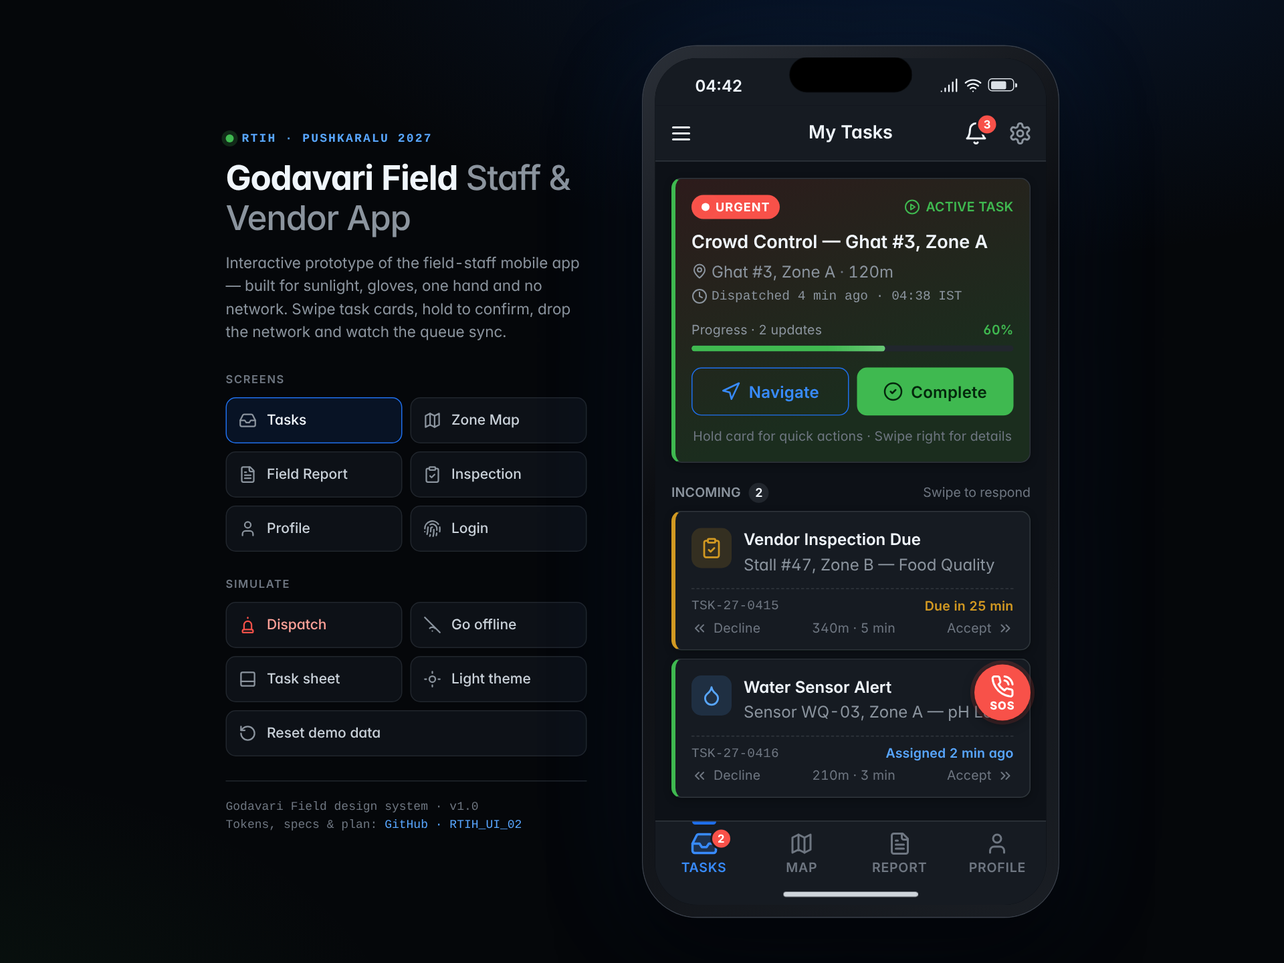
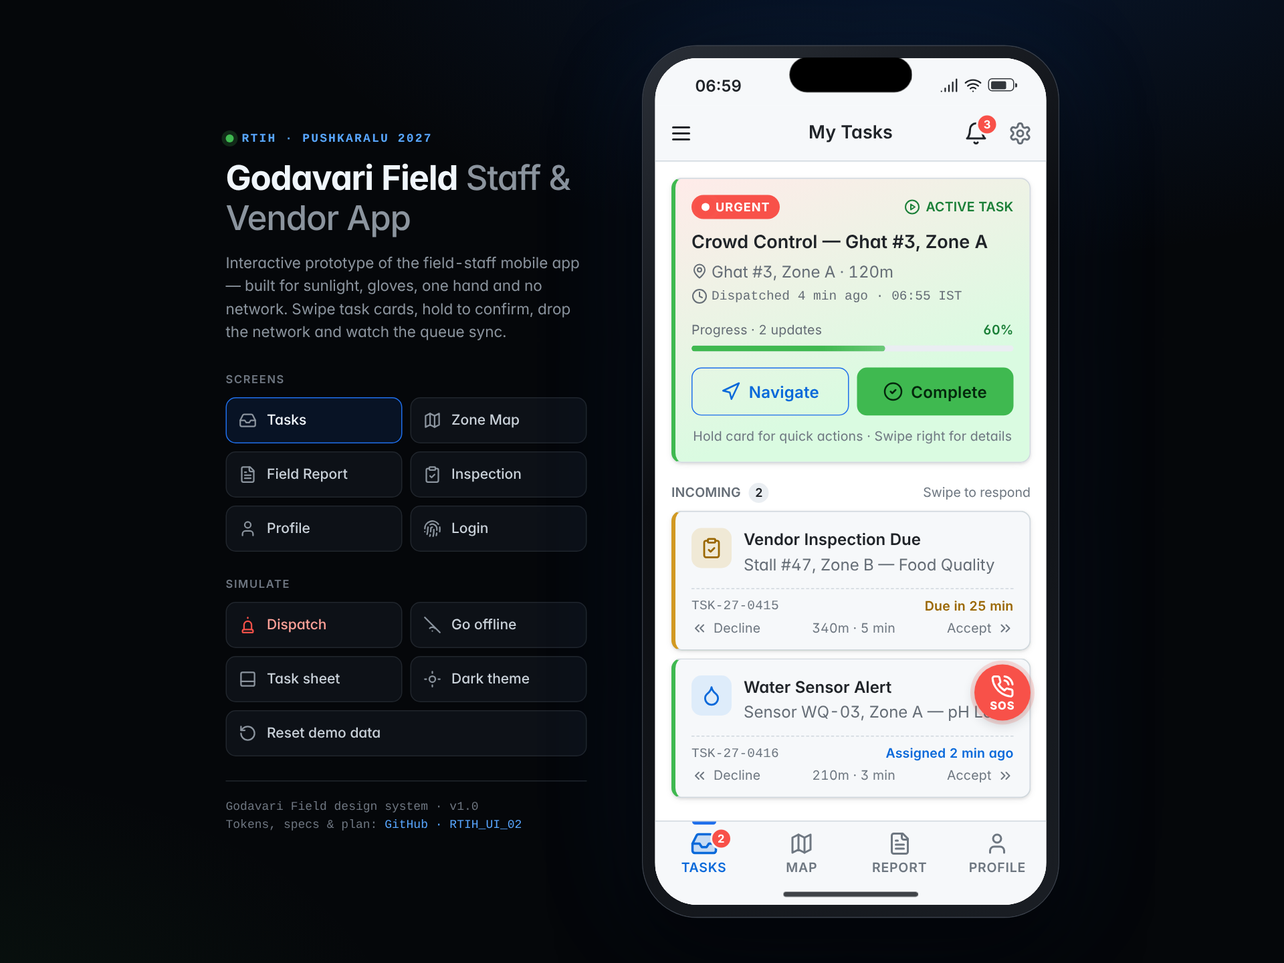
Default to light (day) theme; legible status text tokens for light mode
- Light theme is the default (store, <html>, manifest); dark stays a Profile toggle
- New --color-status-*-fg tokens: darker status tones for text/icons on white (>=4.5:1)
- brand-secondary #0969DA in light; tests extended; screenshots regenerated

Claude-Session: https://claude.ai/code/session_01Wd92WNZffg83YEwUqjfvjR

Changed region(s): [[0.5, 0.0625, 0.8125, 0.9375], [0.3438, 0.6875, 0.4062, 0.7188]]

diff --git a/src/styles/components.css b/src/styles/components.css
@@ -81,9 +81,9 @@
   position: relative;
 }
 .netbar__inner svg { width: 16px; height: 16px; }
-.netbar--offline .netbar__inner { background: rgba(210, 153, 34, 0.15); color: var(--color-status-warning); }
-.netbar--syncing .netbar__inner { background: rgba(88, 166, 255, 0.14); color: var(--color-status-info); }
-.netbar--synced .netbar__inner { background: rgba(63, 185, 80, 0.15); color: var(--color-status-normal); }
+.netbar--offline .netbar__inner { background: rgba(210, 153, 34, 0.15); color: var(--color-status-warning-fg); }
+.netbar--syncing .netbar__inner { background: rgba(88, 166, 255, 0.14); color: var(--color-status-info-fg); }
+.netbar--synced .netbar__inner { background: rgba(63, 185, 80, 0.15); color: var(--color-status-normal-fg); }
 .netbar__chevrons {
   position: absolute; left: 0; right: 0; bottom: 0; height: 4px;
   background-image: linear-gradient(135deg, transparent 33%, var(--color-status-warning) 33%, var(--color-status-warning) 50%, transparent 50%, transparent 83%, var(--color-status-warning) 83%);
@@ -197,7 +197,7 @@
 .btn--success { background: var(--color-status-normal); color: #04260C; }
 .btn--danger { background: var(--color-status-critical); color: #fff; }
 .btn--outline { border: 1.5px solid var(--color-brand-primary); color: var(--color-brand-secondary); background: transparent; }
-.btn--outline-danger { border: 1.5px solid var(--color-status-critical); color: var(--color-status-critical); background: transparent; }
+.btn--outline-danger { border: 1.5px solid var(--color-status-critical); color: var(--color-status-critical-fg); background: transparent; }
 .btn--ghost { color: var(--color-text-primary); background: var(--color-bg-tertiary); }
 .btn--sm { min-height: 40px; font-size: 15px; padding: 0 var(--space-3); }
 .btn--xl { min-height: 56px; }
@@ -257,8 +257,8 @@
 }
 .swipe__under-side { display: flex; align-items: center; gap: var(--space-2); opacity: 0; transform: scale(0.5); }
 .swipe__under-side svg { width: 32px; height: 32px; }
-.swipe__under--accept { background: rgba(63, 185, 80, 0.2); justify-content: flex-start; color: var(--color-status-normal); }
-.swipe__under--decline { background: rgba(248, 81, 73, 0.2); justify-content: flex-end; color: var(--color-status-critical); }
+.swipe__under--accept { background: rgba(63, 185, 80, 0.2); justify-content: flex-start; color: var(--color-status-normal-fg); }
+.swipe__under--decline { background: rgba(248, 81, 73, 0.2); justify-content: flex-end; color: var(--color-status-critical-fg); }
 .swipe__card { padding: var(--space-4); padding-bottom: var(--space-3); cursor: grab; will-change: transform; user-select: none; -webkit-user-select: none; }
 .swipe__card.is-settling { transition: transform var(--duration-normal) var(--ease-spring), background var(--duration-fast); }
 .swipe__card.is-leaving { transition: transform var(--duration-normal) var(--ease-default), opacity var(--duration-normal); }
@@ -272,15 +272,15 @@
 .incoming__foot { display: flex; align-items: center; justify-content: space-between; gap: var(--space-2); margin-top: var(--space-3); padding-top: var(--space-2); border-top: 1px dashed var(--color-border-default); color: var(--color-text-tertiary); }
 .incoming__foot svg { width: 16px; height: 16px; }
 .swipe-hint { display: flex; align-items: center; gap: 6px; }
-.tint-urgent { background: rgba(248,81,73,0.15); color: var(--color-status-critical); }
-.tint-high { background: rgba(210,153,34,0.16); color: var(--color-status-warning); }
-.tint-normal { background: rgba(63,185,80,0.15); color: var(--color-status-normal); }
-.tint-info { background: rgba(88,166,255,0.15); color: var(--color-status-info); }
+.tint-urgent { background: rgba(248,81,73,0.15); color: var(--color-status-critical-fg); }
+.tint-high { background: rgba(210,153,34,0.16); color: var(--color-status-warning-fg); }
+.tint-normal { background: rgba(63,185,80,0.15); color: var(--color-status-normal-fg); }
+.tint-info { background: rgba(88,166,255,0.15); color: var(--color-status-info-fg); }
 .tint-low { background: var(--color-bg-tertiary); color: var(--color-text-secondary); }
 .tint-radar { background: rgba(163,113,247,0.16); color: var(--color-status-radar); }
 
 .done-card { background: color-mix(in srgb, var(--color-bg-secondary) 60%, transparent); box-shadow: none; padding: var(--space-3) var(--space-4); display: flex; align-items: center; gap: var(--space-3); margin-bottom: var(--space-2); width: 100%; text-align: left; border-color: transparent; }
-.done-card svg { width: 20px; height: 20px; color: var(--color-status-normal); }
+.done-card svg { width: 20px; height: 20px; color: var(--color-status-normal-fg); }
 .done-card__body { flex: 1; min-width: 0; }
 .done-card__title { color: var(--color-text-secondary); white-space: nowrap; overflow: hidden; text-overflow: ellipsis; }
 .done-card .chev { width: 20px; height: 20px; color: var(--color-text-tertiary); }
@@ -334,7 +334,7 @@
 .notes { border: 1px solid var(--color-border-default); border-radius: var(--radius-md); overflow: hidden; }
 .note { display: grid; grid-template-columns: 52px 1fr; gap: var(--space-2); padding: var(--space-3); border-bottom: 1px solid var(--color-border-default); }
 .note:last-of-type { border-bottom: 0; }
-.note__time { color: var(--color-status-info); }
+.note__time { color: var(--color-status-info-fg); }
 .note-add { display: flex; gap: var(--space-2); padding: var(--space-2); background: var(--color-bg-secondary); border-top: 1px solid var(--color-border-default); }
 .note-add input { flex: 1; min-height: 44px; border-radius: var(--radius-sm); border: 1px solid var(--color-border-default); background: var(--color-bg-primary); padding: 0 var(--space-3); outline: none; }
 .note-add input:focus { border-color: var(--color-border-focus); box-shadow: var(--shadow-focus); }
@@ -349,9 +349,9 @@
 }
 .option svg { width: 24px; height: 24px; color: var(--color-text-secondary); }
 .option:active { background: var(--color-bg-tertiary); }
-.option--danger svg { color: var(--color-status-critical); }
-.option--warn svg { color: var(--color-status-warning); }
-.option--info svg { color: var(--color-status-info); }
+.option--danger svg { color: var(--color-status-critical-fg); }
+.option--warn svg { color: var(--color-status-warning-fg); }
+.option--info svg { color: var(--color-status-info-fg); }
 
 /* ---------- Toast ---------- */
 .toasts { position: absolute; left: var(--space-4); right: var(--space-4); top: calc(47px + var(--header-h) + var(--space-2)); z-index: var(--z-toast); display: grid; gap: var(--space-2); pointer-events: none; }
@@ -364,13 +364,13 @@
 }
 .toast svg { width: 22px; height: 22px; }
 .toast--success { border-left: 4px solid var(--color-status-normal); }
-.toast--success svg { color: var(--color-status-normal); }
+.toast--success svg { color: var(--color-status-normal-fg); }
 .toast--warning { border-left: 4px solid var(--color-status-warning); }
-.toast--warning svg { color: var(--color-status-warning); }
+.toast--warning svg { color: var(--color-status-warning-fg); }
 .toast--info { border-left: 4px solid var(--color-status-info); }
-.toast--info svg { color: var(--color-status-info); }
+.toast--info svg { color: var(--color-status-info-fg); }
 .toast--critical { border-left: 4px solid var(--color-status-critical); }
-.toast--critical svg { color: var(--color-status-critical); }
+.toast--critical svg { color: var(--color-status-critical-fg); }
 .toast.is-out { animation: toastOut var(--duration-fast) var(--ease-default) forwards; }
 @keyframes toastIn { from { opacity: 0; transform: translateY(-12px) scale(0.96); } to { opacity: 1; transform: none; } }
 @keyframes toastOut { to { opacity: 0; transform: translateY(-8px); } }
@@ -394,11 +394,11 @@
 @keyframes glow { 0%, 100% { transform: scale(0.85); opacity: 0.7; } 50% { transform: scale(1.05); opacity: 1; } }
 @keyframes fadeIn { from { opacity: 0; } to { opacity: 1; } }
 .dispatch__main { position: relative; flex: 1; display: flex; flex-direction: column; align-items: center; text-align: center; }
-.dispatch__siren { width: 88px; height: 88px; border-radius: 50%; display: grid; place-items: center; background: rgba(248, 81, 73, 0.16); color: var(--color-status-critical); margin-bottom: var(--space-5); box-shadow: 0 0 0 10px rgba(248,81,73,0.08), 0 0 0 22px rgba(248,81,73,0.04); }
-.dispatch--high .dispatch__siren { background: rgba(210,153,34,0.16); color: var(--color-status-warning); box-shadow: 0 0 0 10px rgba(210,153,34,0.08), 0 0 0 22px rgba(210,153,34,0.04); }
+.dispatch__siren { width: 88px; height: 88px; border-radius: 50%; display: grid; place-items: center; background: rgba(248, 81, 73, 0.16); color: var(--color-status-critical-fg); margin-bottom: var(--space-5); box-shadow: 0 0 0 10px rgba(248,81,73,0.08), 0 0 0 22px rgba(248,81,73,0.04); }
+.dispatch--high .dispatch__siren { background: rgba(210,153,34,0.16); color: var(--color-status-warning-fg); box-shadow: 0 0 0 10px rgba(210,153,34,0.08), 0 0 0 22px rgba(210,153,34,0.04); }
 .dispatch__siren svg { width: 44px; height: 44px; }
-.dispatch__kicker { color: var(--color-status-critical); letter-spacing: 0.08em; margin: 0 0 var(--space-4); }
-.dispatch--high .dispatch__kicker { color: var(--color-status-warning); }
+.dispatch__kicker { color: var(--color-status-critical-fg); letter-spacing: 0.08em; margin: 0 0 var(--space-4); }
+.dispatch--high .dispatch__kicker { color: var(--color-status-warning-fg); }
 .dispatch__title { margin: 0 0 var(--space-1); font-size: 26px; line-height: 32px; font-weight: 700; letter-spacing: -0.015em; }
 .dispatch__stats { display: grid; grid-template-columns: 1fr 1fr; gap: var(--space-2); width: 100%; margin-top: var(--space-6); }
 .dispatch__stat { background: var(--color-bg-secondary); border: 1px solid var(--color-border-default); border-radius: var(--radius-md); padding: var(--space-3); }
@@ -430,7 +430,7 @@
 /* ---------- Form controls ---------- */
 .field-label { color: var(--color-text-secondary); margin: var(--space-5) 0 var(--space-2); display: flex; align-items: center; justify-content: space-between; }
 .field-label:first-child { margin-top: 0; }
-.req { color: var(--color-status-critical); margin-left: 2px; }
+.req { color: var(--color-status-critical-fg); margin-left: 2px; }
 
 .type-scroller { display: flex; gap: var(--space-2); overflow-x: auto; margin: 0 calc(var(--space-4) * -1); padding: 2px var(--space-4) 4px; scroll-snap-type: x mandatory; scrollbar-width: none; }
 .type-scroller::-webkit-scrollbar { display: none; }
@@ -450,12 +450,12 @@
 .segmented button[aria-checked="true"][data-tone="warning"] { background: var(--color-status-warning); color: #1F1400; }
 .segmented button[aria-checked="true"][data-tone="critical"] { background: var(--color-status-critical); }
 .segmented--tall button { height: 52px; }
-.suggest { margin-top: var(--space-2); display: flex; align-items: center; gap: 6px; color: var(--color-status-warning); }
+.suggest { margin-top: var(--space-2); display: flex; align-items: center; gap: 6px; color: var(--color-status-warning-fg); }
 .suggest svg { width: 16px; height: 16px; }
 
 .loc-card { padding: var(--space-3) var(--space-4); }
 .loc-card__row { display: flex; align-items: flex-start; gap: var(--space-2); width: 100%; text-align: left; min-height: 44px; }
-.loc-card__row > svg { width: 20px; height: 20px; color: var(--color-status-info); margin-top: 2px; }
+.loc-card__row > svg { width: 20px; height: 20px; color: var(--color-status-info-fg); margin-top: 2px; }
 .loc-card .btn-row { margin-top: var(--space-3); }
 .loc-card .btn { font-size: 14px; padding: 0 var(--space-2); white-space: nowrap; gap: 6px; }
 .loc-card .btn svg { width: 18px; height: 18px; }
@@ -478,7 +478,7 @@
 .textarea textarea::placeholder { color: var(--color-text-tertiary); }
 .textarea textarea:focus { border: 2px solid var(--color-border-focus); box-shadow: var(--shadow-focus); padding: calc(var(--space-3) - 1px) calc(var(--space-4) - 1px) calc(var(--space-6) - 1px); }
 .textarea__count { position: absolute; right: var(--space-3); bottom: var(--space-2); color: var(--color-text-tertiary); pointer-events: none; }
-.textarea__count.is-near { color: var(--color-status-warning); }
+.textarea__count.is-near { color: var(--color-status-warning-fg); }
 
 .photos { display: flex; gap: var(--space-2); flex-wrap: wrap; }
 .photo-add { width: 72px; height: 72px; border-radius: var(--radius-md); border: 2px dashed var(--color-border-default); color: var(--color-text-secondary); display: flex; flex-direction: column; align-items: center; justify-content: center; gap: 2px; font: 600 12px/14px var(--font-sans); transition: border-color var(--duration-fast), color var(--duration-fast); }
@@ -540,7 +540,7 @@
 .is-fail .checkbox { background: var(--color-status-critical); border-color: var(--color-status-critical); }
 .is-pass .checkbox svg, .is-fail .checkbox svg { transform: scale(1); }
 .check-item__label { flex: 1; }
-.check-item__photo { display: inline-flex; align-items: center; gap: 4px; color: var(--color-status-critical); font: 600 13px/18px var(--font-sans); padding: 6px 8px; border-radius: var(--radius-sm); background: rgba(248,81,73,0.12); min-height: 32px; }
+.check-item__photo { display: inline-flex; align-items: center; gap: 4px; color: var(--color-status-critical-fg); font: 600 13px/18px var(--font-sans); padding: 6px 8px; border-radius: var(--radius-sm); background: rgba(248,81,73,0.12); min-height: 32px; }
 .check-item__photo svg { width: 16px; height: 16px; }
 .legend { display: flex; gap: var(--space-4); margin-top: var(--space-2); color: var(--color-text-tertiary); }
 .legend span { display: inline-flex; align-items: center; gap: 6px; }
@@ -575,7 +575,7 @@
 .switch::after { content: ''; position: absolute; top: 2px; left: 2px; width: 25px; height: 25px; border-radius: 50%; background: #fff; box-shadow: 0 2px 4px rgba(0,0,0,0.3); transition: transform var(--duration-fast) var(--ease-spring); }
 .switch[aria-checked="true"] { background: var(--color-brand-primary); border-color: var(--color-brand-primary); }
 .switch[aria-checked="true"]::after { transform: translateX(20px); }
-.clear-btn { color: var(--color-status-critical); font-weight: 600; font-size: 15px; min-height: 40px; padding: 0 var(--space-3); border-radius: var(--radius-sm); background: rgba(248,81,73,0.12); }
+.clear-btn { color: var(--color-status-critical-fg); font-weight: 600; font-size: 15px; min-height: 40px; padding: 0 var(--space-3); border-radius: var(--radius-sm); background: rgba(248,81,73,0.12); }
 .version { text-align: center; color: var(--color-text-tertiary); margin-top: var(--space-4); }
 
 /* ---------- Login ---------- */

diff --git a/index.html b/index.html
@@ -1,9 +1,10 @@
 <!doctype html>
-<html lang="en" data-theme="dark">
+<html lang="en" data-theme="light">
 <head>
   <meta charset="utf-8">
   <meta name="viewport" content="width=device-width, initial-scale=1, viewport-fit=cover">
-  <meta name="theme-color" content="#0D1117">
+  <meta name="theme-color" content="#FFFFFF" media="(prefers-color-scheme: light)">
+  <meta name="theme-color" content="#FFFFFF">
   <meta name="color-scheme" content="dark light">
   <meta name="description" content="Godavari Field — RTIH AP Godavari Pushkaralu 2027 staff & vendor mobile app UI. Interactive, offline-first prototype.">
   <meta name="apple-mobile-web-app-capable" content="yes">
@@ -35,7 +36,7 @@
           <button class="panel__btn panel__btn--danger" id="ctlDispatch"><svg viewBox="0 0 24 24" fill="none" stroke="currentColor" stroke-width="2" stroke-linecap="round" stroke-linejoin="round"><path d="M7 18v-6a5 5 0 1 1 10 0v6"/><path d="M5 21a1 1 0 0 0 1 1h12a1 1 0 0 0 1-1v-1a2 2 0 0 0-2-2H7a2 2 0 0 0-2 2z"/><path d="M12 2v1"/></svg>Dispatch</button>
           <button class="panel__btn" id="ctlNet" aria-pressed="false"><svg viewBox="0 0 24 24" fill="none" stroke="currentColor" stroke-width="2" stroke-linecap="round" stroke-linejoin="round"><path d="M12 20h.01"/><path d="M8.5 16.429a5 5 0 0 1 7 0"/><path d="m2 2 20 20"/></svg><span>Go offline</span></button>
           <button class="panel__btn" id="ctlTask"><svg viewBox="0 0 24 24" fill="none" stroke="currentColor" stroke-width="2" stroke-linecap="round" stroke-linejoin="round"><rect x="3" y="3" width="18" height="18" rx="2"/><path d="M3 15h18"/></svg>Task sheet</button>
-          <button class="panel__btn" id="ctlTheme" aria-pressed="false"><svg viewBox="0 0 24 24" fill="none" stroke="currentColor" stroke-width="2" stroke-linecap="round" stroke-linejoin="round"><circle cx="12" cy="12" r="4"/><path d="M12 2v2M12 20v2M2 12h2M20 12h2"/></svg><span>Light theme</span></button>
+          <button class="panel__btn" id="ctlTheme" aria-pressed="false"><svg viewBox="0 0 24 24" fill="none" stroke="currentColor" stroke-width="2" stroke-linecap="round" stroke-linejoin="round"><circle cx="12" cy="12" r="4"/><path d="M12 2v2M12 20v2M2 12h2M20 12h2"/></svg><span>Dark theme</span></button>
           <button class="panel__btn panel__btn--wide" id="ctlReset"><svg viewBox="0 0 24 24" fill="none" stroke="currentColor" stroke-width="2" stroke-linecap="round" stroke-linejoin="round"><path d="M3 12a9 9 0 1 0 9-9 9.75 9.75 0 0 0-6.74 2.74L3 8"/><path d="M3 3v5h5"/></svg>Reset demo data</button>
         </div>
       </div>

diff --git a/src/styles/tokens.css b/src/styles/tokens.css
@@ -3,6 +3,8 @@
    Source of truth: docs/brief/UI_BRIEF.md §2 (mirrored in tokens/tokens.json)
    ========================================================================== */
 
+/* Base values = dark palette; the light block overrides them.
+   Light (day) is the DEFAULT theme: <html data-theme="light"> + store default. Dark is the user toggle. */
 :root,
 [data-theme="dark"] {
   /* 2.1 Colour — Dark (default) */
@@ -21,6 +23,11 @@
   --color-status-critical: #F85149;
   --color-status-info: #58A6FF;
   --color-status-radar: #A371F7;
+  /* Status colours used as TEXT/ICON (same as fills in dark) */
+  --color-status-normal-fg: #3FB950;
+  --color-status-warning-fg: #D29922;
+  --color-status-critical-fg: #F85149;
+  --color-status-info-fg: #58A6FF;
   --color-surface-task-urgent: #2D1B1B;
   --color-surface-task-active: #1B2D1E;
   --color-surface-task-pending: #2D2B1B;
@@ -57,6 +64,12 @@
   --color-text-tertiary: #6E7781;
   --color-text-inverse: #FFFFFF;
   --color-border-default: #D0D7DE;
+  --color-brand-secondary: #0969DA;
+  /* Darker status tones for text/icons on white — fills keep the brief's hex values */
+  --color-status-normal-fg: #1A7F37;
+  --color-status-warning-fg: #9A6700;
+  --color-status-critical-fg: #CF222E;
+  --color-status-info-fg: #0969DA;
   --color-surface-task-urgent: #FFEBE9;
   --color-surface-task-active: #DAFBE1;
   --color-surface-task-pending: #FFF8C5;

diff --git a/src/js/overlays.js b/src/js/overlays.js
@@ -42,7 +42,7 @@ function detailHTML(t) {
       <div class="btn-row btn-row--3" style="margin-top:16px">
         <button class="btn btn--outline btn--sm" data-d="nav">${icon('navigation')}Navigate</button>
         <button class="btn btn--ghost btn--sm" data-d="call">${icon('phone')}Call</button>
-        <button class="btn btn--ghost btn--sm" data-d="esc" style="color:var(--color-status-warning)">${icon('arrow-up-circle')}Escalate</button>
+        <button class="btn btn--ghost btn--sm" data-d="esc" style="color:var(--color-status-warning-fg)">${icon('arrow-up-circle')}Escalate</button>
       </div>` : ''}
     ${!readOnly || notes ? `
       <div class="sheet-label t-caption-strong" style="text-transform:uppercase">Notes ${readOnly ? '' : '<span class="c-tertiary" style="text-transform:none;font-weight:400">(tap to add)</span>'}</div>

diff --git a/src/js/app.js b/src/js/app.js
@@ -178,7 +178,7 @@ function buildPanel() {
 function syncPanel() {
   $$('[data-go]').forEach((b) => b.setAttribute('aria-pressed', String(state.authed ? b.dataset.go === state.route : b.dataset.go === 'login')));
   const net = $('#ctlNet'); if (net) { net.setAttribute('aria-pressed', String(!state.online)); net.querySelector('span').textContent = state.online ? 'Go offline' : 'Reconnect'; }
-  const th = $('#ctlTheme'); if (th) { th.setAttribute('aria-pressed', String(state.theme === 'light')); th.querySelector('span').textContent = state.theme === 'dark' ? 'Light theme' : 'Dark theme'; }
+  const th = $('#ctlTheme'); if (th) { th.setAttribute('aria-pressed', String(state.theme === 'dark')); th.querySelector('span').textContent = state.theme === 'dark' ? 'Light theme' : 'Dark theme'; }
 }
 
 /* ---------- boot ---------- */

diff --git a/src/styles/base.css b/src/styles/base.css
@@ -36,10 +36,10 @@ svg { display: block; flex-shrink: 0; }
 .c-primary { color: var(--color-text-primary); }
 .c-secondary { color: var(--color-text-secondary); }
 .c-tertiary { color: var(--color-text-tertiary); }
-.c-normal { color: var(--color-status-normal); }
-.c-warning { color: var(--color-status-warning); }
-.c-critical { color: var(--color-status-critical); }
-.c-info { color: var(--color-status-info); }
+.c-normal { color: var(--color-status-normal-fg); }
+.c-warning { color: var(--color-status-warning-fg); }
+.c-critical { color: var(--color-status-critical-fg); }
+.c-info { color: var(--color-status-info-fg); }
 .regional { font-family: var(--font-regional); }
 
 /* ==========================================================================

diff --git a/src/js/screens/report.js b/src/js/screens/report.js
@@ -209,7 +209,7 @@ function startRecording(wrap) {
     <span class="voice__rec" aria-hidden="true"></span>
     <div class="wave is-live">${waveBars(seed, 34, true)}</div>
     <span class="voice__time t-mono" id="vtime" aria-live="off">0:00</span>
-    <button class="voice__btn" id="vstop" aria-label="Stop recording" style="color:var(--color-status-critical)">${icon('square')}</button></div>`;
+    <button class="voice__btn" id="vstop" aria-label="Stop recording" style="color:var(--color-status-critical-fg)">${icon('square')}</button></div>`;
   const time = $('#vtime', wrap);
   const stop = () => {
     clearInterval(rec?.timer); rec = null;

diff --git a/src/js/store.js b/src/js/store.js
@@ -2,7 +2,7 @@
 // Mirrors the Zustand + MMKV shape planned for the React Native build.
 import { seedTasks, seedNotifications, CHECKLIST, STAFF, DISPATCH_POOL } from './data.js';
 
-const KEY = 'rtih.godavari-field.v1';
+const KEY = 'rtih.godavari-field.v2'; // v2: light theme default
 const listeners = new Set();
 
 function freshReport() {
@@ -15,7 +15,7 @@ function freshInspection() {
 function initial() {
   return {
     authed: true,
-    theme: 'dark',
+    theme: 'light', // day theme by default (outdoor glare); dark is a Profile toggle
     lang: 'en',
     online: true,
     sync: 'idle', // idle | syncing | synced

diff --git a/README.md b/README.md
@@ -13,15 +13,15 @@ The field staff it's for are Zone Marshals, Traffic Controllers, Medical Teams a
 | Tasks | Task sheet | Zone Map | Field Report | Inspection |
 |---|---|---|---|---|
 | ![](docs/screenshots/01-tasks.png) | ![](docs/screenshots/02-task-sheet.png) | ![](docs/screenshots/03-map.png) | ![](docs/screenshots/04-report.png) | ![](docs/screenshots/05-inspection.png) |
-| **Profile & Shift** | **Dispatch overlay** | **Login** | **Offline** | **Light theme** |
-| ![](docs/screenshots/06-profile.png) | ![](docs/screenshots/07-dispatch.png) | ![](docs/screenshots/08-login.png) | ![](docs/screenshots/09-offline.png) | ![](docs/screenshots/10-light-tasks.png) |
+| **Profile & Shift** | **Dispatch overlay** | **Login** | **Offline** | **Dark theme (toggle)** |
+| ![](docs/screenshots/06-profile.png) | ![](docs/screenshots/07-dispatch.png) | ![](docs/screenshots/08-login.png) | ![](docs/screenshots/09-offline.png) | ![](docs/screenshots/10-dark-tasks.png) |
 
 ## What's inside
 
 | Brief section | Implemented |
 |---|---|
 | §1 Principles P1–P6 | Primary actions within 3 taps, 48px+ targets, thumb-zone actions, dark default, offline queue, haptic patterns, `prefers-reduced-motion` |
-| §2 Tokens | `src/styles/tokens.css` ↔ `tokens/tokens.json` (W3C DTCG). Dark and light themes. Contrast checked by tests |
+| §2 Tokens | `src/styles/tokens.css` ↔ `tokens/tokens.json` (W3C DTCG). **Light (day) theme is the default**; dark is a toggle in Profile. Contrast checked by tests |
 | §3 Shell | 56px header (menu/back, centred title, bell + badge, gear), 64px tab bar with active pill and badge, animated offline → syncing → synced bar |
 | §4.1 Tasks | Active card (progress, Navigate, **hold-to-Complete**, 1s long-press quick actions, swipe right → details). Incoming cards swipe **right = Accept / left = Decline + reason** (80px threshold, scaled underlay, haptic). Up Next, Completed Today, pull-to-refresh, SOS (1.5s hold) |
 | §4.2 Zone Map | Offline vector map: blue pulse "you", bouncing task pin, facilities, crowd heatmap, **radar zones shown as counts + flow arrows only** (privacy §1.3), zoom/re-centre/legend, layer toggles (Staff = Supervisor only), draggable active-task strip |

diff --git a/docs/DESIGN_SYSTEM.md b/docs/DESIGN_SYSTEM.md
@@ -2,6 +2,11 @@
 
 Source of truth: [Brief §2](brief/UI_BRIEF.md). The tokens live in `src/styles/tokens.css` (web) and `tokens/tokens.json` (W3C DTCG, for Figma variables and React Native `tokens/*.ts`). `tests/tokens.test.mjs` keeps the two files in sync.
 
+## Default theme: Light (day)
+The app opens in the **Light** theme, and Dark is a toggle under Profile → Settings. This was a project decision that overrides the brief's “dark default” (P6): a day theme reads better in direct sunlight at the ghats. The Dark palette is unchanged and still saves battery on OLED screens when staff switch to it.
+
+In Light, status **fills** keep the brief's hex values. Status **text and icons** use darker `--color-status-*-fg` tones (#1A7F37 green, #9A6700 amber, #CF222E red, #0969DA blue), and brand text uses #0969DA. All of them reach at least 4.5:1 on white, which `tests/tokens.test.mjs` checks.
+
 ## Colour: measured contrast on `--color-bg-primary` #0D1117
 
 | Token | Hex | Ratio | Used as |
